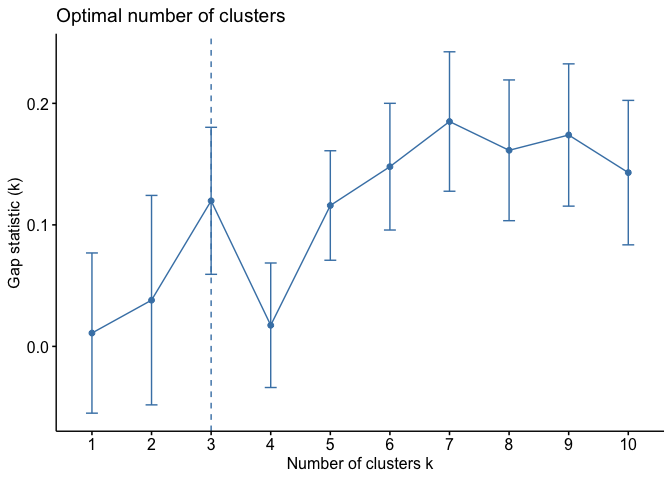
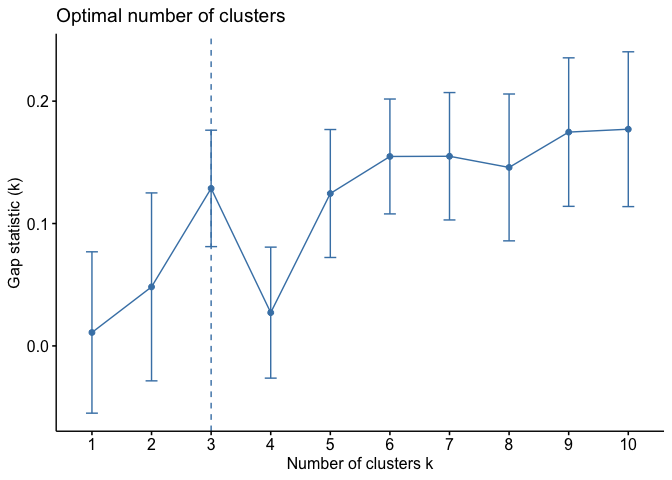
working on hierarchical clustering

diff --git a/hw4_mem2371.md b/hw4_mem2371.md
@@ -24,7 +24,7 @@ library(cluster)
 
 ``` r
 nyc_data = 
-  read.csv("./data/class4_p1.csv", na = c("", ".", "NA")) %>% 
+  read.csv("./data/class4_p1.csv", na = c("", ".", "NA", ".d", ".r")) %>% 
   janitor::clean_names() %>%
   mutate(
     bmi = as.numeric(bmi),
@@ -32,6 +32,9 @@ nyc_data =
     gpaq11days = as.integer(gpaq11days),
     healthydays = as.integer(healthydays)
   )
+
+# Reorganize all character to factor
+# .d and .r are listed as missing
 
 summary(nyc_data)
 ```
@@ -91,13 +94,16 @@ nyc_restr =
   select(nyc_data, -habits7, -povertygroup) %>% 
   na.omit()
 
+#nyc_restr = nyc_restr %>% distinct(X1, .keep_all = TRUE)
+
 nrow(nyc_restr)
 ```
 
     ## [1] 3552
 
-After removing the variables “habits7” and “povertygroup”, and deleting
-missing observations, the total N for the dataset is 3552.
+After removing the variables “habits7” (% missing) and “povertygroup” (%
+missing), and deleting missing observations, the total N for the dataset
+is 3552.
 
 ##### Data partitioning
 
@@ -251,6 +257,8 @@ summary(model_2_test)
 ``` r
 mse_1 = sum(model_1_test$residuals^2)
 mse_2 = sum(model_2_test$residuals^2)
+
+#Email TAs, ask about calibration in linear regression
 ```
 
 The outcome we are investigating is continuous, so the appropriate
@@ -302,6 +310,8 @@ apply(us_arrest, 2, sd, na.rm = TRUE)
 
 ``` r
 # Data should be scaled???
+
+#scale(us_arrest, center = TRUE, scale = TRUE)
 ```
 
 I have opted not to scale the data because they are all in the same
@@ -389,6 +399,7 @@ print(gap_stat, method = "firstmax")
 
 ``` r
 #How do we know what our max k should be?
+
 set.seed(100)
 gap_stat <- clusGap(us_arrest, FUN = kmeans, nstart = 30, K.max = 24, B = 50)
 fviz_gap_stat(gap_stat) + theme_minimal() + ggtitle("fviz_gap_stat: Gap Statistic")
@@ -398,7 +409,6 @@ fviz_gap_stat(gap_stat) + theme_minimal() + ggtitle("fviz_gap_stat: Gap Statisti
 
 ``` r
 clusters.6 = kmeans(us_arrest, 6, nstart = 25)
-
 str(clusters.6)
 ```
 
@@ -424,11 +434,13 @@ fviz_cluster(clusters.6, data = us_arrest)
 
 ![](hw4_mem2371_files/figure-gfm/unnamed-chunk-2-3.png)<!-- -->
 
+DELETE ABOVE CODE.
+
 ``` r
 # Create Dissimilarity matrix
 diss.matrix = dist(us_arrest, method = "euclidean")
 
-# Hierarchical clustering using Complete Linkage
+# Hierarchical clustering using COMPLETE Linkage
 clusters.h = hclust(diss.matrix, method = "complete" )
 
 # Plot the obtained dendrogram
@@ -439,7 +451,7 @@ plot(clusters.h, cex = 0.6, hang = -1)
 
 ``` r
 #create function to use within clusGap
-hclusCut = function(x, k) list(cluster = cutree(hclust(dist(x, method = "euclidian"), method = "average"), k = k))
+hclusCut = function(x, k) list(cluster = cutree(hclust(dist(x, method = "euclidian"), method = "complete"), k = k))
 
 gap_stat = clusGap(us_arrest, FUN = hclusCut, K.max = 10, B = 50)
 fviz_gap_stat(gap_stat)
@@ -448,40 +460,61 @@ fviz_gap_stat(gap_stat)
 ![](hw4_mem2371_files/figure-gfm/unnamed-chunk-3-2.png)<!-- -->
 
 ``` r
-#Use number of clusters from gap statistic to obtain cluster assignment for each observation
-clusters.h.6 = cutree(clusters.h, k = 6)
-table(clusters.h.6)
-```
+# Hierarchical clustering using AVERAGE Linkage
+clusters.a = hclust(diss.matrix, method = "average" )
 
-    ## clusters.h.6
-    ##  1  2  3  4  5  6 
-    ## 14  6 10  2 10  8
+hclusCut = function(x, k) list(cluster = cutree(hclust(dist(x, method = "euclidian"), method = "average"), k = k))
 
-``` r
-#Alternatives for hierarchical clustering
-
-clusters.hcut = hcut(us_arrest, k = 3, hc_func="hclust", hc_method = "single", hc_metric = "euclidian")
-
-clusters.hcut$size
-```
-
-    ## [1] 48  1  1
-
-``` r
-fviz_dend(clusters.hcut, rect = TRUE)
+gap_stat = clusGap(us_arrest, FUN = hclusCut, K.max = 10, B = 50)
+fviz_gap_stat(gap_stat)
 ```
 
 ![](hw4_mem2371_files/figure-gfm/unnamed-chunk-3-3.png)<!-- -->
 
 ``` r
-fviz_cluster(clusters.hcut)
+#####do i need to be setting a seed???
+
+#Use number of clusters from gap statistic to obtain cluster assignment for each observation
+clusters.h.3 = cutree(clusters.h, k = 3)
+table(clusters.h.3)
+```
+
+    ## clusters.h.3
+    ##  1  2  3 
+    ## 16 14 20
+
+``` r
+clusters.a.3 = cutree(clusters.a, k = 3)
+table(clusters.a.3)
+```
+
+    ## clusters.a.3
+    ##  1  2  3 
+    ## 16 14 20
+
+``` r
+clusters.3 = kmeans(us_arrest, 3, nstart = 25)
+str(clusters.3)
+```
+
+    ## List of 9
+    ##  $ cluster     : Named int [1:50] 2 2 2 3 2 3 1 2 2 3 ...
+    ##   ..- attr(*, "names")= chr [1:50] "Alabama" "Alaska" "Arizona" "Arkansas" ...
+    ##  $ centers     : num [1:3, 1:4] 4.27 11.81 8.21 87.55 272.56 ...
+    ##   ..- attr(*, "dimnames")=List of 2
+    ##   .. ..$ : chr [1:3] "1" "2" "3"
+    ##   .. ..$ : chr [1:4] "Murder" "Assault" "UrbanPop" "Rape"
+    ##  $ totss       : num 355808
+    ##  $ withinss    : num [1:3] 19264 19564 9137
+    ##  $ tot.withinss: num 47964
+    ##  $ betweenss   : num 307844
+    ##  $ size        : int [1:3] 20 16 14
+    ##  $ iter        : int 2
+    ##  $ ifault      : int 0
+    ##  - attr(*, "class")= chr "kmeans"
+
+``` r
+fviz_cluster(clusters.3, data = us_arrest)
 ```
 
 ![](hw4_mem2371_files/figure-gfm/unnamed-chunk-3-4.png)<!-- -->
-
-``` r
-gap_stat <- clusGap(us_arrest, FUN = hcut, hc_method = "complete", K.max = 10, B = 50)
-fviz_gap_stat(gap_stat)
-```
-
-![](hw4_mem2371_files/figure-gfm/unnamed-chunk-3-5.png)<!-- -->
